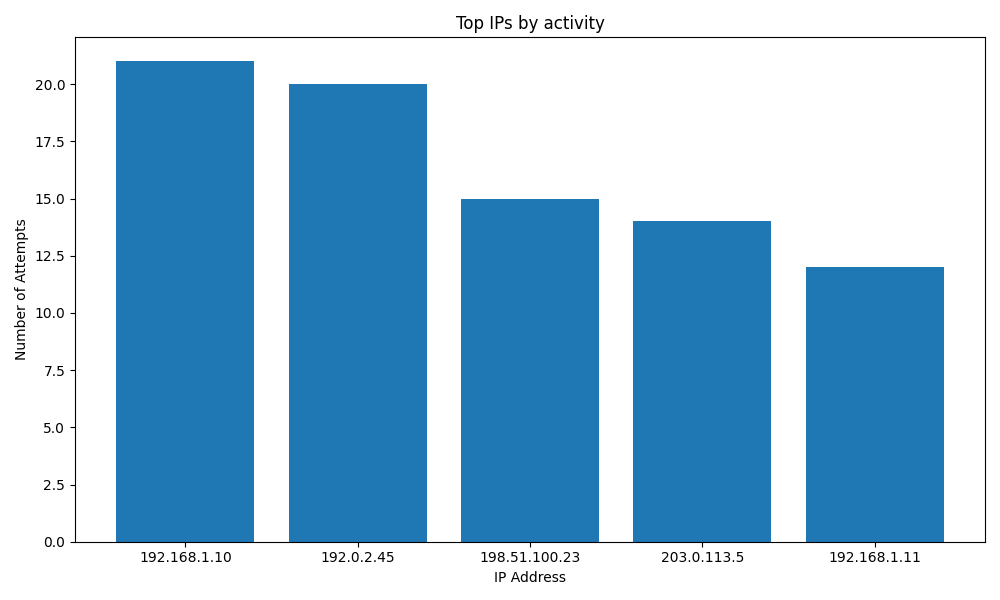
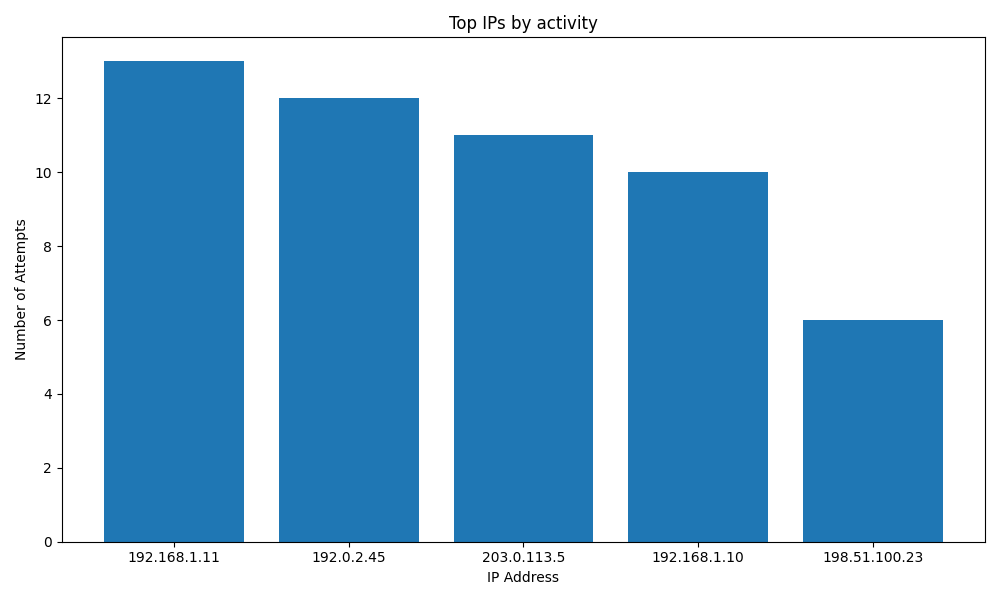
fix

diff --git a/generate_fake_log.py b/generate_fake_log.py
@@ -1,9 +1,9 @@
 import random
 from datetime import datetime
 
-#    Génère un fichier de logs web avec 100 lignes
+#    Génère un fichier de logs web avec 65 lignes
 #    Une liste @IP, URLs, de codes de statut HTTP et d'agents utilisateurs est définie.
-def generate_web_logs(filename="web_access.log", n=100):
+def generate_web_logs(filename="web_access.log", n=65):
     ips = ["192.168.1.10", "203.0.113.5", "198.51.100.23", "192.0.2.45", "192.168.1.11"]
     urls = ["/index.html", "/notfound.html", "/login", "/admin", "/contact", "/robots.txt"]
     codes = ["200", "404", "403", "500"]
